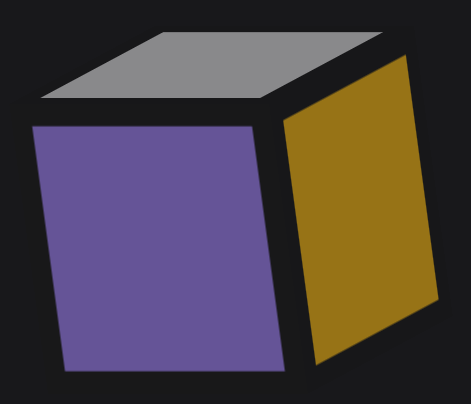
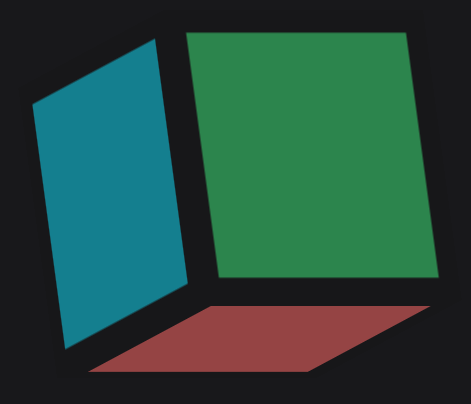
fix: draw 3D models with a depth test on the screen and inside effects (🐛)

diff --git a/testkit/src/main/java/dev/joid/test/contract/RenderBridgeContractSuite.java b/testkit/src/main/java/dev/joid/test/contract/RenderBridgeContractSuite.java
@@ -195,6 +195,36 @@ public abstract class RenderBridgeContractSuite {
 	}
 
 	@Test
+	public void hidesFarFacesBehindNearOnes() {
+		final SnapshotImage image = RenderBridgeContractSuite.render(bridge -> RenderBridgeContractSuite.drawInDepth(bridge, false));
+		RenderBridgeContractSuite.assertPixel(image, 32, 32, RenderBridgeContractSuite.RED);
+	}
+
+	@Test
+	public void clearsTheDepth() {
+		final SnapshotImage image = RenderBridgeContractSuite.render(bridge -> RenderBridgeContractSuite.drawInDepth(bridge, true));
+		RenderBridgeContractSuite.assertPixel(image, 32, 32, RenderBridgeContractSuite.BLUE);
+	}
+
+	@Test
+	public void testsTheDepthInFrameBuffers() {
+		final IRenderBridge render = BridgeHandler.RENDER.get();
+		final IFrameBuffer frameBuffer = render.createFrameBuffer(RenderBridgeContractSuite.SIZE, RenderBridgeContractSuite.SIZE, TextureFilter.NEAREST);
+		final SnapshotImage image = RenderBridgeContractSuite.render(bridge -> {
+			bridge.frameBuffer(frameBuffer);
+			bridge.clear(0F, 0F, 0F, 1F);
+			RenderBridgeContractSuite.drawInDepth(bridge, false);
+			bridge.frameBuffer(null);
+			bridge.color(1F, 1F, 1F, 1F);
+			bridge.texture(frameBuffer.getTexture(), TextureFilter.NEAREST, TextureWrap.CLAMP_TO_EDGE);
+			bridge.draw(DrawMode.TRIANGLES, RenderBridgeContractSuite.quad(0F, 0F, RenderBridgeContractSuite.SIZE, RenderBridgeContractSuite.SIZE, true, 0));
+		});
+		frameBuffer.delete();
+
+		RenderBridgeContractSuite.assertPixel(image, 32, 32, RenderBridgeContractSuite.RED);
+	}
+
+	@Test
 	public void drawsWithTheCurrentColor() {
 		final SnapshotImage image = RenderBridgeContractSuite.render(bridge -> {
 			bridge.color(1F, 0F, 0F, 1F);
@@ -279,6 +309,27 @@ public abstract class RenderBridgeContractSuite {
 		final SnapshotImage image = RenderBridgeContractSuite.backend.capture(RenderBridgeContractSuite.SIZE, RenderBridgeContractSuite.SIZE);
 		RenderBridgeContractSuite.backend.present();
 		return image;
+	}
+
+	private static void drawInDepth(final IRenderBridge bridge, final boolean clearBetween) {
+		bridge.pushMatrix();
+		try {
+			bridge.depth(true, true);
+			bridge.clearDepth();
+			bridge.translate(0D, 0D, -10D);
+			bridge.color(1F, 0F, 0F, 1F);
+			bridge.draw(DrawMode.TRIANGLES, RenderBridgeContractSuite.quad(0F, 0F, RenderBridgeContractSuite.SIZE, RenderBridgeContractSuite.SIZE, false, 0));
+			if (clearBetween) {
+				bridge.clearDepth();
+			}
+
+			bridge.translate(0D, 0D, -10D);
+			bridge.color(0F, 0F, 1F, 1F);
+			bridge.draw(DrawMode.TRIANGLES, RenderBridgeContractSuite.quad(0F, 0F, RenderBridgeContractSuite.SIZE, RenderBridgeContractSuite.SIZE, false, 0));
+		} finally {
+			bridge.depth(false, false);
+			bridge.popMatrix();
+		}
 	}
 
 	private static int[] checkerboard() {

diff --git a/impl/vulkan/src/main/java/dev/joid/impl/vulkan/render/RenderBridge.java b/impl/vulkan/src/main/java/dev/joid/impl/vulkan/render/RenderBridge.java
@@ -201,6 +201,17 @@ public final class RenderBridge extends dev.joid.lib.bridge.render.RenderBridge 
 	}
 
 	@Override
+	public void clearDepth() {
+		this.requireFrame();
+		this.beginPass((FrameBuffer) super.getState().getFrameBuffer());
+		try (MemoryStack stack = MemoryStack.stackPush()) {
+			final VkClearAttachment.Buffer attachment = VkClearAttachment.calloc(1, stack).aspectMask(VK10.VK_IMAGE_ASPECT_DEPTH_BIT);
+			attachment.clearValue().depthStencil().depth(1F);
+			VK10.vkCmdClearAttachments(this.commandBuffer, attachment, this.createClearRect(stack));
+		}
+	}
+
+	@Override
 	public void clearStencil() {
 		this.requireFrame();
 		if (super.getState().getFrameBuffer() != null) {
@@ -319,7 +330,9 @@ public final class RenderBridge extends dev.joid.lib.bridge.render.RenderBridge 
 				this.passWidth = target.getWidth();
 				this.passHeight = target.getHeight();
 				Context.transition(this.commandBuffer, target.getTexture().getImage(), VK10.VK_IMAGE_ASPECT_COLOR_BIT, VK10.VK_IMAGE_LAYOUT_SHADER_READ_ONLY_OPTIMAL, VK10.VK_IMAGE_LAYOUT_COLOR_ATTACHMENT_OPTIMAL);
-				info.renderPass(this.context.getOffscreenRenderPass()).framebuffer(target.getFramebuffer());
+				final VkClearValue.Buffer clearValues = VkClearValue.calloc(2, stack);
+				clearValues.get(1).depthStencil().depth(1F).stencil(0);
+				info.renderPass(this.context.getOffscreenRenderPass()).framebuffer(target.getFramebuffer()).pClearValues(clearValues);
 			}
 
 			info.renderArea().extent().set(this.passWidth, this.passHeight);
@@ -357,7 +370,7 @@ public final class RenderBridge extends dev.joid.lib.bridge.render.RenderBridge 
 		VK13.vkCmdSetDepthTestEnable(this.commandBuffer, state.isDepthTest());
 		VK13.vkCmdSetDepthWriteEnable(this.commandBuffer, state.isDepthWrite());
 		VK13.vkCmdSetDepthCompareOp(this.commandBuffer, VK10.VK_COMPARE_OP_LESS);
-		VK13.vkCmdSetStencilTestEnable(this.commandBuffer, state.isStencilTest());
+		VK13.vkCmdSetStencilTestEnable(this.commandBuffer, state.isStencilTest() && !offscreen);
 		VK13.vkCmdSetStencilOp(this.commandBuffer, VK10.VK_STENCIL_FACE_FRONT_AND_BACK, RenderBridge.operation(state.getStencilFail()), RenderBridge.operation(state.getStencilPass()), RenderBridge.operation(state.getStencilDepthFail()), RenderBridge.compare(state.getStencilFunction()));
 		VK10.vkCmdSetStencilCompareMask(this.commandBuffer, VK10.VK_STENCIL_FACE_FRONT_AND_BACK, state.getStencilMask());
 		VK10.vkCmdSetStencilWriteMask(this.commandBuffer, VK10.VK_STENCIL_FACE_FRONT_AND_BACK, 0xFF);

diff --git a/impl/vulkan/src/main/java/dev/joid/impl/vulkan/render/framebuffer/FrameBuffer.java b/impl/vulkan/src/main/java/dev/joid/impl/vulkan/render/framebuffer/FrameBuffer.java
@@ -22,14 +22,19 @@ public final class FrameBuffer implements IFrameBuffer {
 	private final RenderBridge bridge;
 	private final Texture      texture;
 	private final long         framebuffer;
+	private final long         depthImage;
+	private final long         depthMemory;
+	private final long         depthView;
 
 	public static @NonNull FrameBuffer create(final RenderBridge bridge, final int width, final int height) {
 		final Context context = bridge.getContext();
 		final Texture texture = new Texture(bridge).allocate(width, height);
+		final long[] depth = context.createImage(width, height, context.getDepthStencilFormat(), VK10.VK_IMAGE_USAGE_DEPTH_STENCIL_ATTACHMENT_BIT);
+		final long depthView = context.createImageView(depth[0], context.getDepthStencilFormat(), VK10.VK_IMAGE_ASPECT_DEPTH_BIT | VK10.VK_IMAGE_ASPECT_STENCIL_BIT);
 		try (MemoryStack stack = MemoryStack.stackPush()) {
 			final LongBuffer framebuffer = stack.mallocLong(1);
-			Context.check(VK10.vkCreateFramebuffer(context.getDevice(), VkFramebufferCreateInfo.calloc(stack).sType$Default().renderPass(context.getOffscreenRenderPass()).pAttachments(stack.longs(texture.getView())).width(width).height(height).layers(1), null, framebuffer), "vkCreateFramebuffer");
-			return new FrameBuffer(bridge, texture, framebuffer.get(0));
+			Context.check(VK10.vkCreateFramebuffer(context.getDevice(), VkFramebufferCreateInfo.calloc(stack).sType$Default().renderPass(context.getOffscreenRenderPass()).pAttachments(stack.longs(texture.getView(), depthView)).width(width).height(height).layers(1), null, framebuffer), "vkCreateFramebuffer");
+			return new FrameBuffer(bridge, texture, framebuffer.get(0), depth[0], depth[1], depthView);
 		}
 	}
 
@@ -46,8 +51,16 @@ public final class FrameBuffer implements IFrameBuffer {
 	@Override
 	public void delete() {
 		final long framebuffer = this.framebuffer;
+		final long depthImage = this.depthImage;
+		final long depthMemory = this.depthMemory;
+		final long depthView = this.depthView;
 		final Context context = this.bridge.getContext();
-		this.bridge.dispose(() -> VK10.vkDestroyFramebuffer(context.getDevice(), framebuffer, null));
+		this.bridge.dispose(() -> {
+			VK10.vkDestroyFramebuffer(context.getDevice(), framebuffer, null);
+			VK10.vkDestroyImageView(context.getDevice(), depthView, null);
+			VK10.vkDestroyImage(context.getDevice(), depthImage, null);
+			VK10.vkFreeMemory(context.getDevice(), depthMemory, null);
+		});
 		this.texture.delete();
 	}
 

diff --git a/impl/vulkan/src/main/java/dev/joid/impl/vulkan/render/Context.java b/impl/vulkan/src/main/java/dev/joid/impl/vulkan/render/Context.java
@@ -94,11 +94,11 @@ public final class Context {
 			VK10.vkGetPhysicalDeviceMemoryProperties(this.physicalDevice, this.memoryProperties);
 
 			this.depthStencilFormat  = Context.selectDepthStencilFormat(stack, this.physicalDevice);
-			this.offscreenRenderPass = this.createRenderPass(Context.TEXTURE_FORMAT, false, VK10.VK_IMAGE_LAYOUT_COLOR_ATTACHMENT_OPTIMAL, VK10.VK_IMAGE_LAYOUT_COLOR_ATTACHMENT_OPTIMAL, false);
+			this.offscreenRenderPass = this.createRenderPass(Context.TEXTURE_FORMAT, false, VK10.VK_IMAGE_LAYOUT_COLOR_ATTACHMENT_OPTIMAL, VK10.VK_IMAGE_LAYOUT_COLOR_ATTACHMENT_OPTIMAL, true, true);
 		}
 	}
 
-	public long createRenderPass(final int colorFormat, final boolean clear, final int initialLayout, final int finalLayout, final boolean depthStencil) {
+	public long createRenderPass(final int colorFormat, final boolean clear, final int initialLayout, final int finalLayout, final boolean depthStencil, final boolean clearDepthStencil) {
 		try (MemoryStack stack = MemoryStack.stackPush()) {
 			final int loadOperation = clear ? VK10.VK_ATTACHMENT_LOAD_OP_CLEAR : VK10.VK_ATTACHMENT_LOAD_OP_LOAD;
 			final VkAttachmentDescription.Buffer attachments = VkAttachmentDescription.calloc(depthStencil ? 2 : 1, stack);
@@ -118,14 +118,15 @@ public final class Context {
 					.pColorAttachments(VkAttachmentReference.calloc(1, stack).attachment(0).layout(VK10.VK_IMAGE_LAYOUT_COLOR_ATTACHMENT_OPTIMAL));
 
 			if (depthStencil) {
+				final int depthLoadOperation = clearDepthStencil ? VK10.VK_ATTACHMENT_LOAD_OP_CLEAR : VK10.VK_ATTACHMENT_LOAD_OP_LOAD;
 				attachments.get(1)
 						.format(this.depthStencilFormat)
 						.samples(VK10.VK_SAMPLE_COUNT_1_BIT)
-						.loadOp(loadOperation)
+						.loadOp(depthLoadOperation)
 						.storeOp(VK10.VK_ATTACHMENT_STORE_OP_STORE)
-						.stencilLoadOp(loadOperation)
+						.stencilLoadOp(depthLoadOperation)
 						.stencilStoreOp(VK10.VK_ATTACHMENT_STORE_OP_STORE)
-						.initialLayout(clear ? VK10.VK_IMAGE_LAYOUT_UNDEFINED : VK10.VK_IMAGE_LAYOUT_DEPTH_STENCIL_ATTACHMENT_OPTIMAL)
+						.initialLayout(clearDepthStencil ? VK10.VK_IMAGE_LAYOUT_UNDEFINED : VK10.VK_IMAGE_LAYOUT_DEPTH_STENCIL_ATTACHMENT_OPTIMAL)
 						.finalLayout(VK10.VK_IMAGE_LAYOUT_DEPTH_STENCIL_ATTACHMENT_OPTIMAL);
 				subpass.pDepthStencilAttachment(VkAttachmentReference.calloc(stack).attachment(1).layout(VK10.VK_IMAGE_LAYOUT_DEPTH_STENCIL_ATTACHMENT_OPTIMAL));
 			}

diff --git a/impl/lwjgl2/src/main/java/dev/joid/impl/lwjgl2/render/framebuffer/FrameBuffer.java b/impl/lwjgl2/src/main/java/dev/joid/impl/lwjgl2/render/framebuffer/FrameBuffer.java
@@ -1,6 +1,7 @@
 package dev.joid.impl.lwjgl2.render.framebuffer;
 
 import org.lwjgl.opengl.GL11;
+import org.lwjgl.opengl.GL14;
 import org.lwjgl.opengl.GL30;
 
 import dev.joid.impl.lwjgl2.render.RenderBridge;
@@ -18,6 +19,7 @@ import lombok.NonNull;
 public final class FrameBuffer implements IFrameBuffer {
 
 	private final int     id;
+	private final int     depth;
 	private final Texture texture;
 
 	public static @NonNull FrameBuffer create(final int width, final int height, final TextureFilter filter) {
@@ -31,8 +33,15 @@ public final class FrameBuffer implements IFrameBuffer {
 		final int id = GL30.glGenFramebuffers();
 		GL30.glBindFramebuffer(GL30.GL_FRAMEBUFFER, id);
 		GL30.glFramebufferTexture2D(GL30.GL_FRAMEBUFFER, GL30.GL_COLOR_ATTACHMENT0, GL11.GL_TEXTURE_2D, texture.getId(), 0);
+
+		final int previousRenderBuffer = GL11.glGetInteger(GL30.GL_RENDERBUFFER_BINDING);
+		final int depth = GL30.glGenRenderbuffers();
+		GL30.glBindRenderbuffer(GL30.GL_RENDERBUFFER, depth);
+		GL30.glRenderbufferStorage(GL30.GL_RENDERBUFFER, GL14.GL_DEPTH_COMPONENT24, width, height);
+		GL30.glFramebufferRenderbuffer(GL30.GL_FRAMEBUFFER, GL30.GL_DEPTH_ATTACHMENT, GL30.GL_RENDERBUFFER, depth);
+		GL30.glBindRenderbuffer(GL30.GL_RENDERBUFFER, previousRenderBuffer);
 		GL30.glBindFramebuffer(GL30.GL_FRAMEBUFFER, previousFrameBuffer);
-		return new FrameBuffer(id, texture);
+		return new FrameBuffer(id, depth, texture);
 	}
 
 	@Override
@@ -48,6 +57,7 @@ public final class FrameBuffer implements IFrameBuffer {
 	@Override
 	public void delete() {
 		GL30.glDeleteFramebuffers(this.id);
+		GL30.glDeleteRenderbuffers(this.depth);
 		this.texture.delete();
 	}
 

diff --git a/impl/lwjgl3/src/main/java/dev/joid/impl/lwjgl3/render/framebuffer/FrameBuffer.java b/impl/lwjgl3/src/main/java/dev/joid/impl/lwjgl3/render/framebuffer/FrameBuffer.java
@@ -1,6 +1,7 @@
 package dev.joid.impl.lwjgl3.render.framebuffer;
 
 import org.lwjgl.opengl.GL11C;
+import org.lwjgl.opengl.GL14C;
 import org.lwjgl.opengl.GL30C;
 
 import dev.joid.impl.lwjgl3.render.texture.Texture;
@@ -15,6 +16,7 @@ import lombok.NonNull;
 public final class FrameBuffer implements IFrameBuffer {
 
 	private final int     id;
+	private final int     depth;
 	private final Texture texture;
 
 	public static @NonNull FrameBuffer create(final int width, final int height) {
@@ -22,8 +24,14 @@ public final class FrameBuffer implements IFrameBuffer {
 		final int id = GL30C.glGenFramebuffers();
 		GL30C.glBindFramebuffer(GL30C.GL_FRAMEBUFFER, id);
 		GL30C.glFramebufferTexture2D(GL30C.GL_FRAMEBUFFER, GL30C.GL_COLOR_ATTACHMENT0, GL11C.GL_TEXTURE_2D, texture.getId(), 0);
+
+		final int depth = GL30C.glGenRenderbuffers();
+		GL30C.glBindRenderbuffer(GL30C.GL_RENDERBUFFER, depth);
+		GL30C.glRenderbufferStorage(GL30C.GL_RENDERBUFFER, GL14C.GL_DEPTH_COMPONENT24, width, height);
+		GL30C.glFramebufferRenderbuffer(GL30C.GL_FRAMEBUFFER, GL30C.GL_DEPTH_ATTACHMENT, GL30C.GL_RENDERBUFFER, depth);
+		GL30C.glBindRenderbuffer(GL30C.GL_RENDERBUFFER, 0);
 		GL30C.glBindFramebuffer(GL30C.GL_FRAMEBUFFER, 0);
-		return new FrameBuffer(id, texture);
+		return new FrameBuffer(id, depth, texture);
 	}
 
 	@Override
@@ -39,6 +47,7 @@ public final class FrameBuffer implements IFrameBuffer {
 	@Override
 	public void delete() {
 		GL30C.glDeleteFramebuffers(this.id);
+		GL30C.glDeleteRenderbuffers(this.depth);
 		this.texture.delete();
 	}
 

diff --git a/impl/vulkan/src/main/java/dev/joid/impl/vulkan/render/pipeline/PipelineCache.java b/impl/vulkan/src/main/java/dev/joid/impl/vulkan/render/pipeline/PipelineCache.java
@@ -90,7 +90,7 @@ public final class PipelineCache {
 					.pViewportState(VkPipelineViewportStateCreateInfo.calloc(stack).sType$Default().viewportCount(1).scissorCount(1))
 					.pRasterizationState(rasterization)
 					.pMultisampleState(VkPipelineMultisampleStateCreateInfo.calloc(stack).sType$Default().rasterizationSamples(VK10.VK_SAMPLE_COUNT_1_BIT))
-					.pDepthStencilState(key.isOffscreen() ? null : VkPipelineDepthStencilStateCreateInfo.calloc(stack).sType$Default().depthCompareOp(VK10.VK_COMPARE_OP_LESS))
+					.pDepthStencilState(VkPipelineDepthStencilStateCreateInfo.calloc(stack).sType$Default().depthCompareOp(VK10.VK_COMPARE_OP_LESS))
 					.pColorBlendState(VkPipelineColorBlendStateCreateInfo.calloc(stack).sType$Default().pAttachments(blendAttachment))
 					.pDynamicState(VkPipelineDynamicStateCreateInfo.calloc(stack).sType$Default().pDynamicStates(stack.ints(VK10.VK_DYNAMIC_STATE_VIEWPORT, VK10.VK_DYNAMIC_STATE_SCISSOR, VK10.VK_DYNAMIC_STATE_LINE_WIDTH, VK10.VK_DYNAMIC_STATE_STENCIL_COMPARE_MASK, VK10.VK_DYNAMIC_STATE_STENCIL_WRITE_MASK, VK10.VK_DYNAMIC_STATE_STENCIL_REFERENCE, VK13.VK_DYNAMIC_STATE_CULL_MODE, VK13.VK_DYNAMIC_STATE_FRONT_FACE, VK13.VK_DYNAMIC_STATE_PRIMITIVE_TOPOLOGY, VK13.VK_DYNAMIC_STATE_DEPTH_TEST_ENABLE, VK13.VK_DYNAMIC_STATE_DEPTH_WRITE_ENABLE, VK13.VK_DYNAMIC_STATE_DEPTH_COMPARE_OP, VK13.VK_DYNAMIC_STATE_STENCIL_TEST_ENABLE, VK13.VK_DYNAMIC_STATE_STENCIL_OP)))
 					.layout(key.getShader().getPipelineLayout())

diff --git a/impl/vulkan/src/main/java/dev/joid/impl/vulkan/render/Swapchain.java b/impl/vulkan/src/main/java/dev/joid/impl/vulkan/render/Swapchain.java
@@ -56,8 +56,8 @@ public final class Swapchain {
 			this.colorSpace = selected.colorSpace();
 		}
 
-		this.clearRenderPass = context.createRenderPass(this.format, true, VK10.VK_IMAGE_LAYOUT_UNDEFINED, VK10.VK_IMAGE_LAYOUT_COLOR_ATTACHMENT_OPTIMAL, true);
-		this.loadRenderPass  = context.createRenderPass(this.format, false, VK10.VK_IMAGE_LAYOUT_COLOR_ATTACHMENT_OPTIMAL, VK10.VK_IMAGE_LAYOUT_COLOR_ATTACHMENT_OPTIMAL, true);
+		this.clearRenderPass = context.createRenderPass(this.format, true, VK10.VK_IMAGE_LAYOUT_UNDEFINED, VK10.VK_IMAGE_LAYOUT_COLOR_ATTACHMENT_OPTIMAL, true, true);
+		this.loadRenderPass  = context.createRenderPass(this.format, false, VK10.VK_IMAGE_LAYOUT_COLOR_ATTACHMENT_OPTIMAL, VK10.VK_IMAGE_LAYOUT_COLOR_ATTACHMENT_OPTIMAL, true, false);
 		this.create();
 	}
 

diff --git a/core/src/main/java/dev/joid/lib/draw/model/DrawModel.java b/core/src/main/java/dev/joid/lib/draw/model/DrawModel.java
@@ -25,6 +25,7 @@ public final class DrawModel {
 	public void drawModel(final double x, final double y, final double sizeX, final double sizeY, final double sizeZ, final @NonNull IDrawableModel model) {
 		final IRenderBridge render = BridgeHandler.RENDER.get();
 		render.pushMatrix();
+		render.pushState();
 		try {
 			render.translate(x, y, 0D);
 			render.scale(sizeX, sizeY, sizeZ);
@@ -32,11 +33,12 @@ public final class DrawModel {
 
 			render.cull(false);
 			render.lighting(true);
+			render.depth(true, true);
+			render.clearDepth();
 
 			model.render();
 		} finally {
-			render.lighting(false);
-
+			render.popState();
 			render.popMatrix();
 		}
 	}

diff --git a/core/src/main/java/dev/joid/lib/bridge/render/IRenderBridge.java b/core/src/main/java/dev/joid/lib/bridge/render/IRenderBridge.java
@@ -48,6 +48,7 @@ public interface IRenderBridge extends IBridge {
 	public void stencilFunction(final @NonNull StencilFunction function, final int reference, final int mask);
 	public void stencilOperation(final @NonNull StencilOperation fail, final @NonNull StencilOperation depthFail, final @NonNull StencilOperation pass);
 
+	public void clearDepth();
 	public void clearStencil();
 	public int getViewportWidth();
 	public int getViewportHeight();

diff --git a/impl/lwjgl3/src/main/java/dev/joid/impl/lwjgl3/render/RenderBridge.java b/impl/lwjgl3/src/main/java/dev/joid/impl/lwjgl3/render/RenderBridge.java
@@ -71,6 +71,14 @@ public final class RenderBridge extends dev.joid.lib.bridge.render.RenderBridge 
 	}
 
 	@Override
+	public void clearDepth() {
+		this.applyTarget(super.getState());
+		GL11C.glDepthMask(true);
+		GL11C.glClear(GL11C.GL_DEPTH_BUFFER_BIT);
+		GL11C.glDepthMask(super.getState().isDepthWrite());
+	}
+
+	@Override
 	public void clearStencil() {
 		this.applyTarget(super.getState());
 		GL11C.glStencilMask(0xFF);

diff --git a/impl/lwjgl2/src/main/java/dev/joid/impl/lwjgl2/render/RenderBridge.java b/impl/lwjgl2/src/main/java/dev/joid/impl/lwjgl2/render/RenderBridge.java
@@ -246,6 +246,14 @@ public final class RenderBridge implements IRenderBridge {
 	}
 
 	@Override
+	public void clearDepth() {
+		final boolean write = GL11.glGetBoolean(GL11.GL_DEPTH_WRITEMASK);
+		GL11.glDepthMask(true);
+		GL11.glClear(GL11.GL_DEPTH_BUFFER_BIT);
+		GL11.glDepthMask(write);
+	}
+
+	@Override
 	public void clearStencil() {
 		GL11.glClear(GL11.GL_STENCIL_BUFFER_BIT);
 	}
